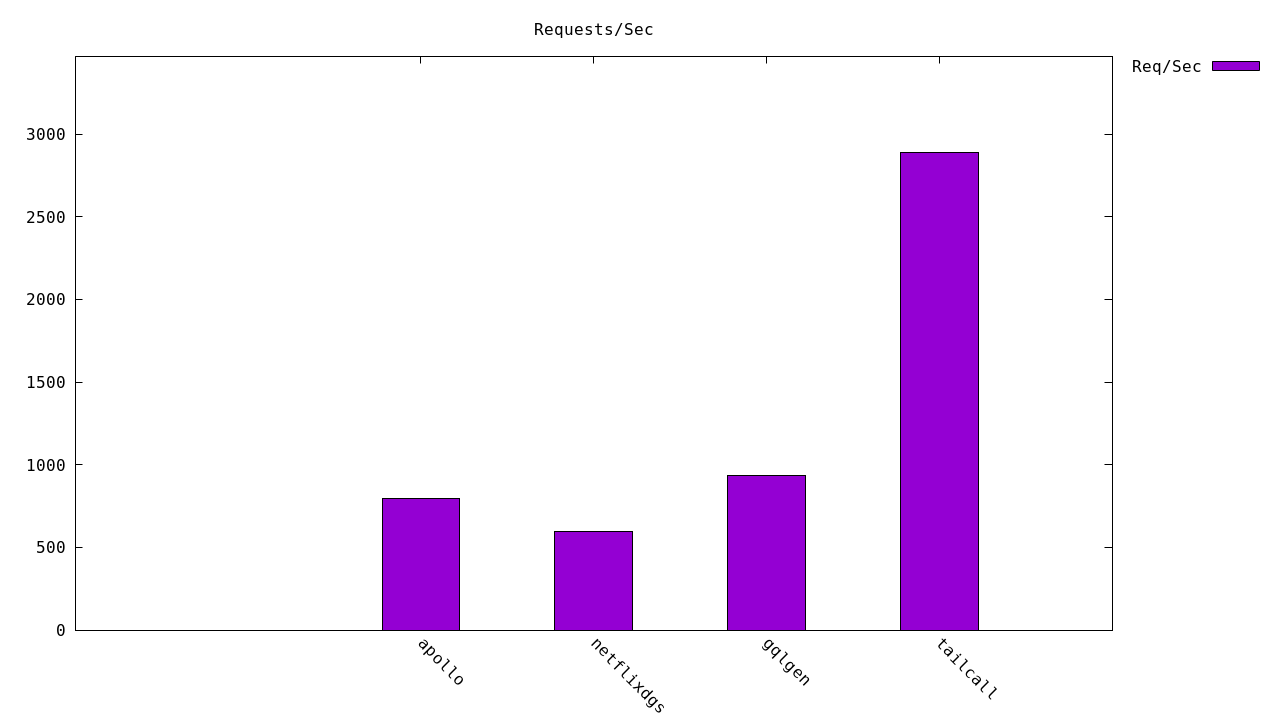
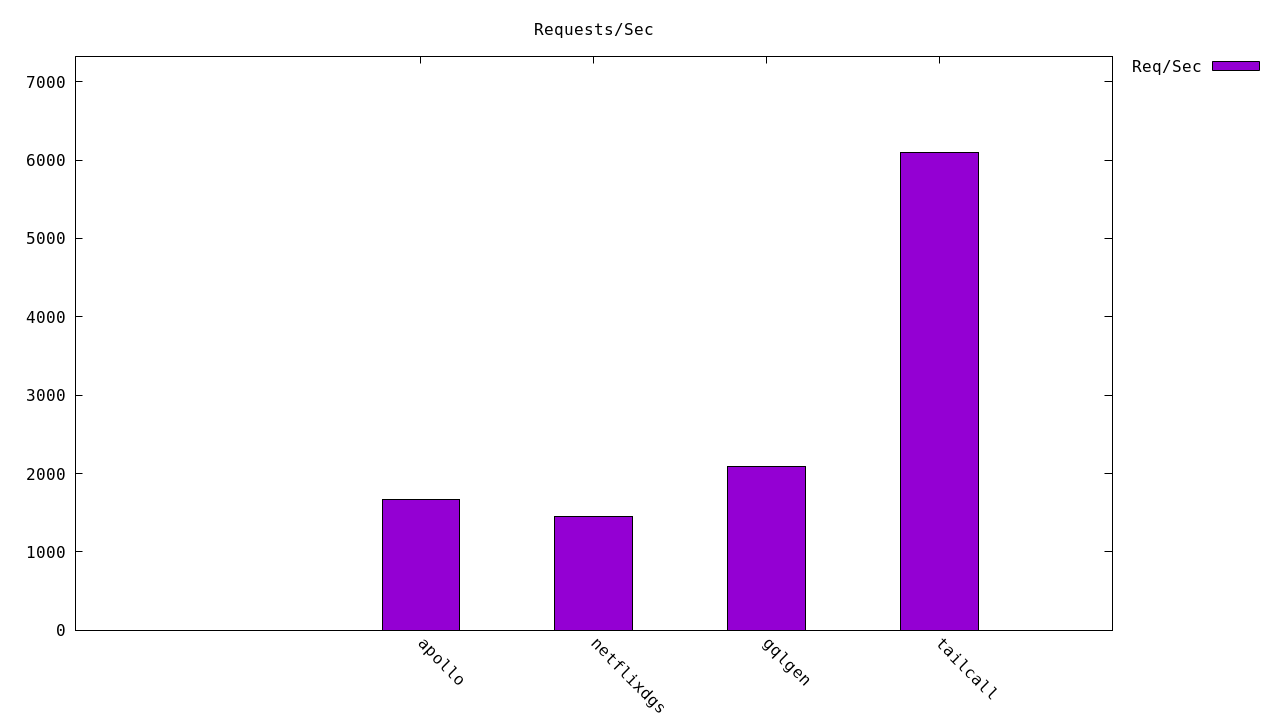
build: create gh action to run benchmark (#8)
* build: create gh action to run benchmark

* chore: add push on workflow

* chore: pull changes before run benchmark

* chore: config pull.ff only

* chore: checkout to branch

* Updated performance results in README.md

* chore: set `runs-on` as `benchmarking-runner`

* refactor: format and sort table as expected

* chore: use ubuntu-latest to test benchmarking

* Updated performance results in README.md

* chore: re-format results

* Updated performance results in README.md

* chore: remove `

* Updated performance results in README.md

* chore: rename tailcall binary

* refactor: rename workflow and use benchmarking-runner

* Updated performance results in README.md

* chore: add `:` to align properly

* Updated performance results in README.md

* chore: run one last time on ubuntu to ensure the changes

* chore: use benchmarking-runner

* chore: use ubuntu

* Updated performance results in README.md

* refactor: use awk to allow comma separator

* Updated performance results in README.md

* refactor: use perl to add the `,` as separator

* Updated performance results in README.md

* chore: set `benchmarking-runner` as `runs-on`

---------

diff --git a/README.md b/README.md
@@ -43,12 +43,12 @@ Get started with the benchmarks:
 
 <!-- PERFORMANCE_RESULTS_START -->
 
-| Server           | Requests/sec | Latency (ms) |
-| ---------------- | -----------: | -----------: |
-| [Tailcall]       |   `2,890.68` |      `34.69` |
-| [Gqlgen]         |     `935.00` |     `115.73` |
-| [Apollo GraphQL] |     `793.37` |     `128.22` |
-| [Netflix DGS]    |     `597.39` |     `191.85` |
+| Server | Requests/sec | Latency (ms) |
+|--------:|--------------:|--------------:|
+| [Tailcall] | 6,102.39 | 16.36 |
+| [Gqlgen] | 2,092.07 | 49.50 |
+| [Apollo GraphQL] | 1,668.19 | 59.91 |
+| [Netflix DGS] | 1,449.72 | 72.13 |
 
 <!-- PERFORMANCE_RESULTS_END -->
 
